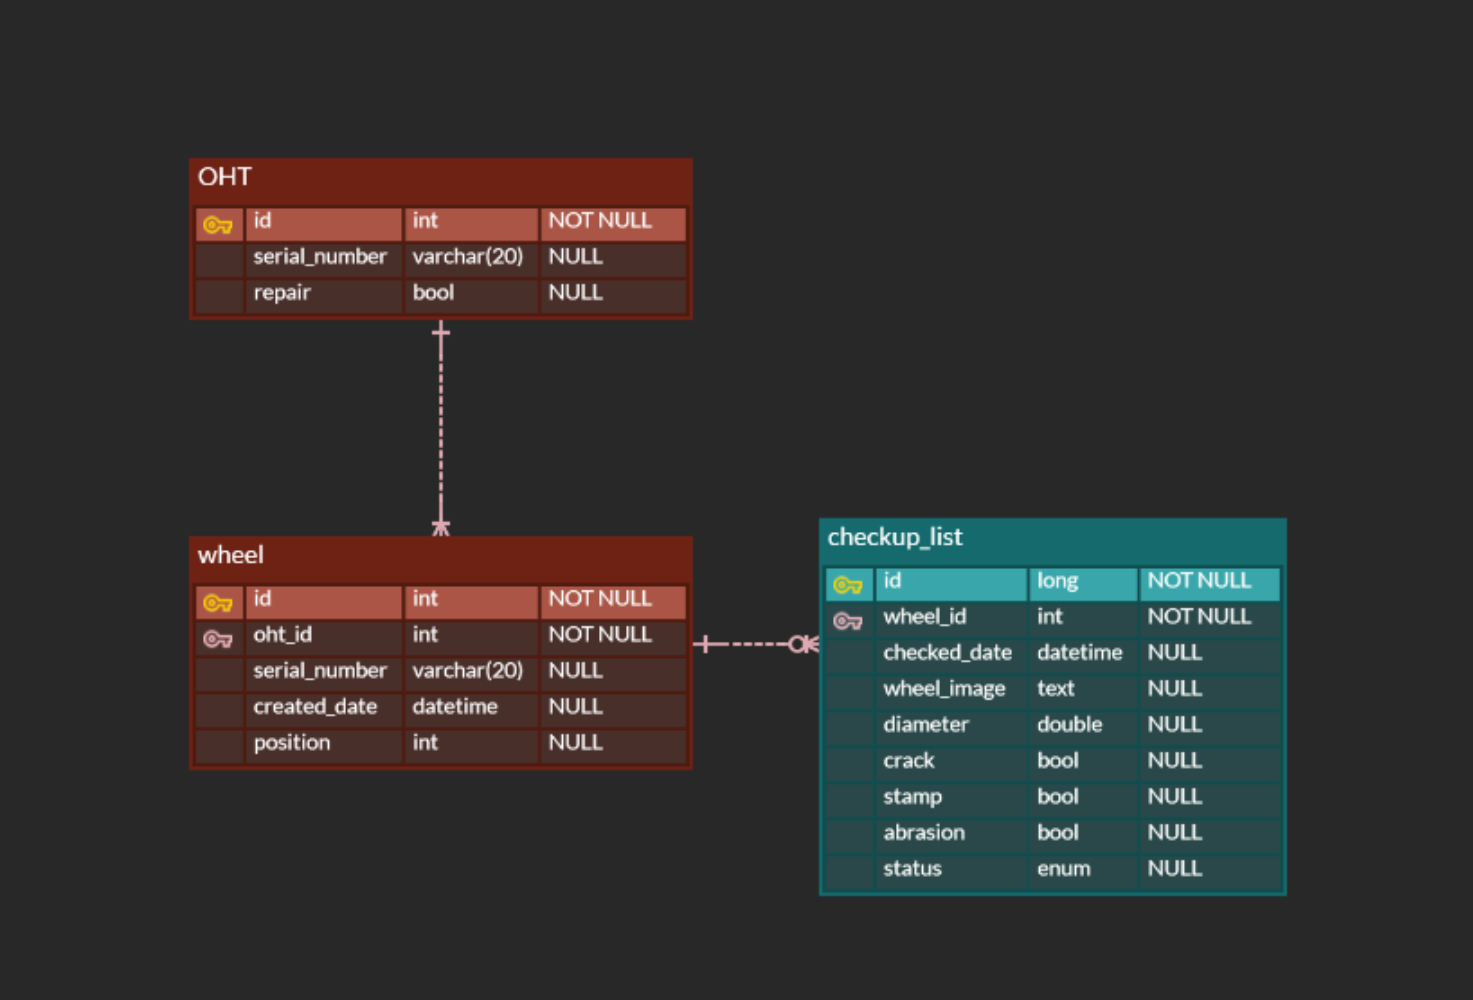
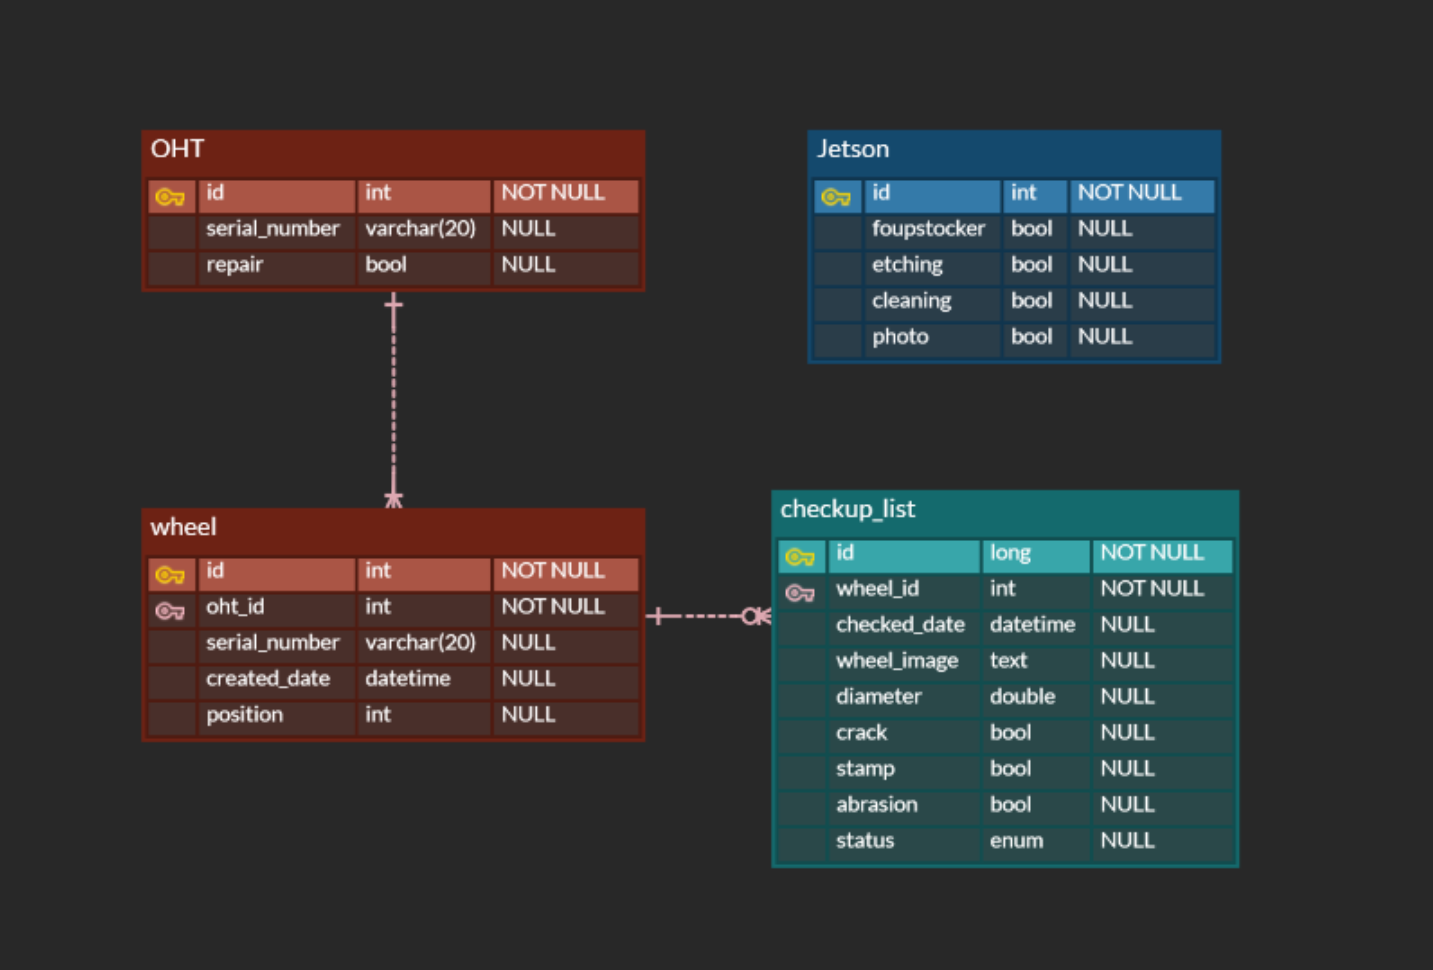
[chore] 24.05.17 erd 이미지 변경 및 console.log 제거
Former-commit-id: 9e492f3438d0b9e675f31248aa99c0a70ce0e6fc

diff --git a/Sebakwi-fe/src/pages/Dashboard/CameraConnectSection/CameraConnectSection.tsx b/Sebakwi-fe/src/pages/Dashboard/CameraConnectSection/CameraConnectSection.tsx
@@ -34,7 +34,7 @@ export default function CameraConnectSection() {
         prevPowerData.map((power, i) => (i === index ? !power : power))
       );
     } catch (error) {
-      console.error('Failed to toggle power', error);
+      // console.error('Failed to toggle power', error);
     }
   };
 

diff --git a/README.md b/README.md
@@ -43,7 +43,7 @@
   </tr>
 </table>
 
-3. 뭘써야함?
+3. Unity 시뮬레이터
 <table width="100%" border-style="non" cellspacing="0" cellpadding="100">
   <tr>
     <td align="center"><img src="docs/unity.gif" alt="result_page" width="400"></td>
@@ -51,7 +51,6 @@
   </tr>
 </table>
 
-4. Unity 시뮬레이터
 <table width="100%" border-style="non" cellspacing="0" cellpadding="100">
   <tr>
     <td align="center"><img src="docs/unity.gif" alt="result_page" width="400"></td>
